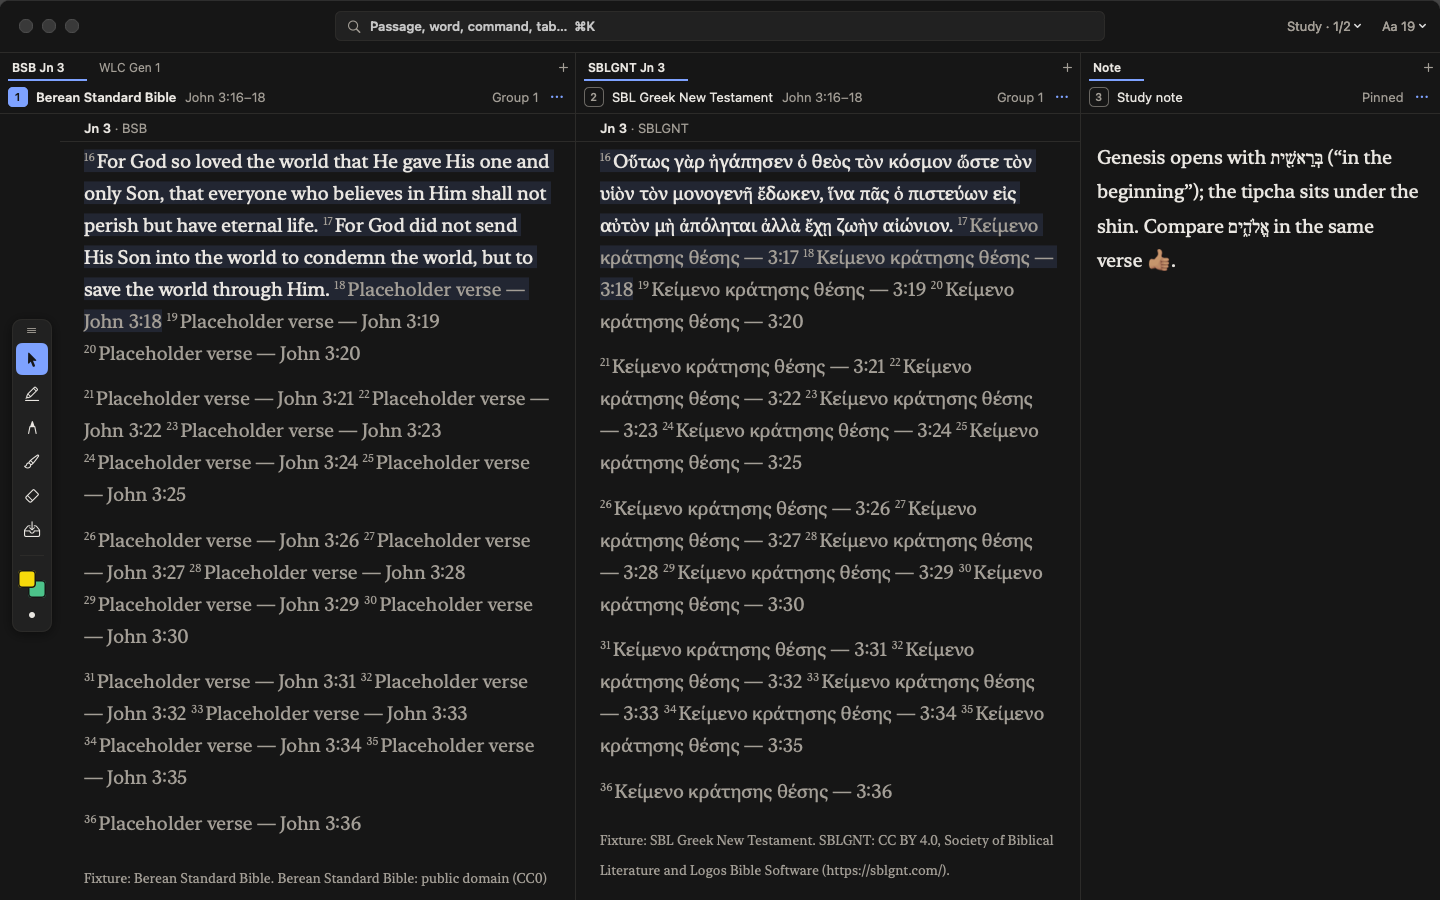
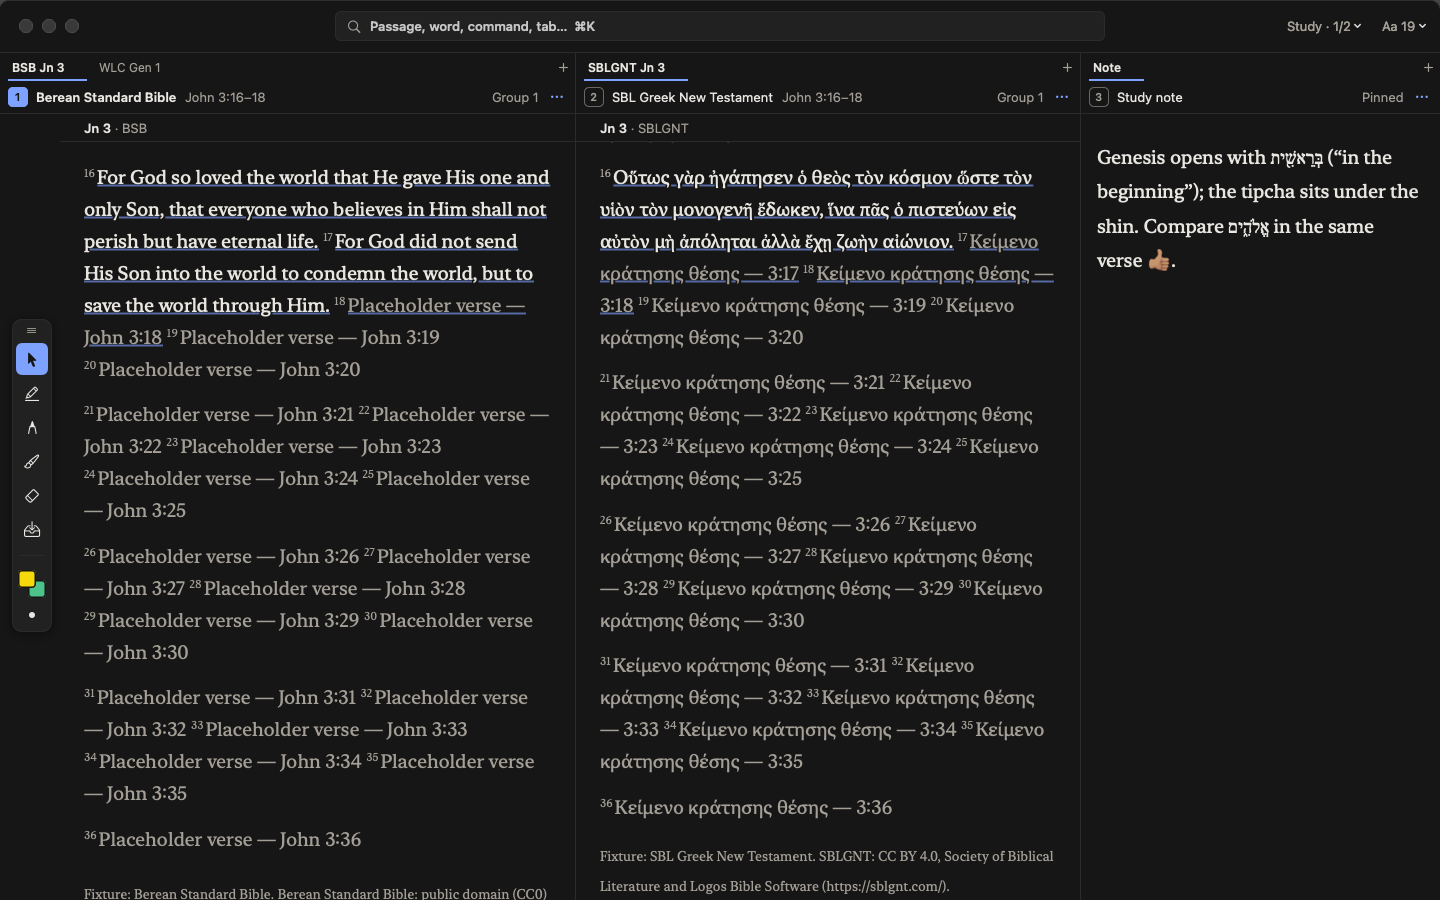
B078: Mac pictures and evidence after the lockstep rulings
Claude-Session: https://claude.ai/code/session_01PSjqcsLRcrsvGQzbzBAjnV

Changed region(s): [[0.0312, 0.1556, 0.75, 1.0]]

diff --git a/docs/evidence/B078-mac.md b/docs/evidence/B078-mac.md
@@ -1,8 +1,10 @@
 # B078 evidence (Mac) — continuous reading in the Mac shell
 
 Recorded 4 November 2026 on the Mac mini (Apple M1, macOS 26.4, Xcode 26.6) in the worktree
-`openlogos-b078mac`, branch `b078-mac-reading` (from `b078-core-reading` at ad10225, bindings
-regenerated). Work was done by a Claude Code subagent while the owner slept. Nothing was
+`openlogos-b078mac`, branch `b078-mac-reading` (from `b078-core-reading` at ad10225; merged
+again at 2e53c87 for the core's palette book rows, bindings regenerated). Revision 2 follows
+the lead's lockstep rulings (reading line, mark, not-in-edition, window cap, Find, live
+follow, placeholder words); the numbers, pictures and lanes below are from that tree. Work was done by a Claude Code subagent while the owner slept. Nothing was
 pushed or merged; no simulator, keychain or macOS user was touched. Only placeholder text and
 the conformance fixtures' verses are on screen. The core part is B078-core.md; the web half
 is `b078-web-reading`.
@@ -11,18 +13,18 @@ is `b078-web-reading`.
 
 | # | Item | Where |
 |---|---|---|
-| 1 | Typing `John 3:16` (palette, Enter) jumps the column to John 3 with verse 16's first line 8 pt under the sticky header, flashes it once (accent 35 % easing to 12 % over 0.9 s) and keeps a quiet mark (accent 12 %). The linked SBLGNT column goes to the same verse, marked too. A chapter's first verse (or a Psalm's title) opens with the chapter heading in view. | `Sources/Shell/ContinuousReader.swift` (`ReadingStream.open`, `jump`, `flash`) |
+| 1 | Typing `John 3:16` (palette, Enter) jumps the column to John 3 with verse 16's first line on the reading line, 24 pt under the sticky header (a sliver of the verse before shows), flashes it once (the accent at 30 % fading out over 1.2 s) and keeps B072's underline mark (2 pt, accent at 60 %) on every verse of `highlight_range`. The linked SBLGNT column goes to the same verse, marked too. | `Sources/Shell/ContinuousReader.swift` (`ReadingStream.open`, `jump`, `flash`) |
 | 2 | Scrolling runs John 3 → 4 … 21 → Acts 1 and back up John 2 → 1 → Luke 24 without a jump: the verse at the top keeps its place on screen while blocks are added or released above it (the clip view's origin moves by exactly what changed; the tests check every 40 pt step to within 2 pt). The header (`Jn 4 · BSB`) follows at once; tab labels (`BSB Jn 4`) and identity rows (`John 4:7`) follow at once through `ReadingLabels` (only those views re-render), and the session is refreshed when scrolling stops. Flick scrolling at 120 pt/frame through 32 chapters never stalls (no step moved less than asked) and dropped no frame at 1440 × 900. | `ReadingStream.maintain`, `trim`, `anchored`, `ReadingScheduler`, `ReadingLabels` |
 | 3 | Blocks (ChapterLayout.swift): the book title on a book's first chapter, the chapter label, the placeholder notice, verse numbers (none for a Psalm title), a new paragraph at `paragraph_start`, a line of its own for poetry (indented 1.5 em), the superscription italic and muted. | `Sources/Reader/ChapterLayout.swift` (`ReaderBlockPiece`, `ReaderLayout(pieces:)`) |
-| 4 | Group 1 (BSB + SBLGNT) scrolls together verse for verse: each top-verse change is reported (`tab.record_scroll`) and each follower scrolled to its mapped verse without animation and without reporting back. A WLC tab in the group follows by its own numbering (English Malachi 4:5 → Hebrew 3:23; Joel 2:30 → 3:3). | `ShellModel.recordScroll`, `apply(positions:)`, `ReadingStream.apply`, `follow` |
-| 5 | Back / Forward return to typed passages (Back to the verse the reader had scrolled to) and clear the mark; `John 3:16-18` marks the three verses; `Jude 3`, `Ps 3` (its title), `Genesis` (chapter 1, first verse) open; `John 22` shows the not-in-edition state (`John has no chapter 22`), as does an SBLGNT tab following into Psalms (`Psalms is not in SBLGNT`) and WLC on John (`John is not in WLC`). | `NotInEditionView` (ColumnsView.swift), `ShellModel.readingError`, `withBookRow` |
-| 6 | BSB John 3:16–17, SBLGNT John 3:16 and WLC Genesis 1:1–2 show their real text with the fixtures' licence line under their block, and keep highlights, ink, selection, Word study, the context menu and Find in this chapter (which keeps to the chapter it was opened in). Placeholder verses are muted; a selection or word that touches one has Highlight, Collect, Note on it, Study, Highlight in…, Copy with reference and Word study disabled with `Placeholder text can't be quoted or collected` (well, context menu, a toast if run, drags refused); copying the text itself and searching stay. | `ShellModel.placeholderBlocked`, `contextMenu(for:)`, `refreshWell`, `dragEnded` |
+| 4 | Group 1 (BSB + SBLGNT) scrolls together verse for verse: each change of the verse on the reading line is reported (`tab.record_scroll`, at most once per frame, never behind window work) and each follower scrolled to its mapped verse on its reading line without animation and without reporting back; when scrolling settles the position is reported again with its scalar. The verse on the reading line is the verse that begins on that row, else the verse running through it. A WLC tab in the group follows by its own numbering (English Malachi 4:5 → Hebrew 3:23; Joel 2:30 → 3:3). | `ShellModel.recordScroll`, `apply(positions:)`, `ReadingStream.apply`, `follow` |
+| 5 | Back / Forward return to typed passages (Back to the verse the reader had scrolled to) and clear the mark; `John 3:16-18` marks the three verses; `Jude 3`, `Ps 3` (its title), `Genesis` (the core's palette book row, `nav.navigate Gen.1`) open; `John 22` shows the not-in-edition state, titled `Berean Standard Bible · John 22`, body the core's words (`John has no chapter 22.`), buttons `Choose another…` (the palette) and `Close tab`; likewise an SBLGNT tab following into Psalms (`Psalms is not in SBLGNT.`) and WLC on John. | `NotInEditionView` (ColumnsView.swift), `ShellModel.readingError` |
+| 6 | BSB John 3:16–17, SBLGNT John 3:16 and WLC Genesis 1:1–2 show their real text with the fixtures' licence line under their block, and keep highlights, ink, selection, Word study, the context menu and Find in this chapter (the chapter of the right-clicked word; from the palette or keyboard, the chapter on the reading line). Placeholder verses are muted, each block carries `Placeholder text — this edition is not installed`; a selection or word that touches one has Highlight (its submenu removed), Collect, Note on it, Study, Highlight in…, Copy with reference, Word study and Search lemma disabled with `Placeholder text can’t be quoted or collected` (well, context menu, a toast if run, drags refused); copying the text itself and searching stay. | `ShellModel.placeholderBlocked`, `contextMenu(for:)`, `refreshWell`, `dragEnded` |
 | 7 | Highlights are kept as segment spans and painted in whatever window is shown; ink strokes are pinned to the verse under them (host-only anchor): they move with the text, hide while the verse is out of the window and come back on it. | `SegmentSpan`, `ReaderMark.spans`, `InkSheet.anchors` / `InkCanvasEngine.syncOffsets` |
-| 8 | Only a window of chapters is in the text view: 5 blocks when the reader stops, at most 12 while scrolling (releases wait for the reader to stop, or go several at once at the cap). Longest window in the 32-chapter scrolls: 12 blocks, 531 verses, 19,830 UTF-16 units; process footprint 109–119 MB before and after each scroll. Hidden tabs keep their stream (40 at most). | `ReadingStream.maxBlocks`, `hardMaxBlocks`, `ShellModel.pooledStream` |
+| 8 | Only a window of chapters is in the text view: 5 blocks when the reader stops, at most 9 while scrolling (releases wait for the reader to stop, or go several at once at the cap). Longest window in the 32-chapter scrolls: 9 blocks, 433 verses, 16,488 UTF-16 units; process footprint 109–118 MB before and after each scroll. Hidden tabs keep their stream (40 at most). | `ReadingStream.maxBlocks`, `hardMaxBlocks`, `ShellModel.pooledStream` |
 
 ## Speed (specs/22 §7, Release, 10 × 3 × 4 session, 240 samples per row)
 
-Tree dc17a62, `scripts/b078-mac-shots.sh measure`, raw JSON in `artifacts/b078/measure-1440.json`
+Tree 666fa7a, `scripts/b078-mac-shots.sh measure`, raw JSON in `artifacts/b078/measure-1440.json`
 and `measure-1024.json` (gitignored). Rows as B072: the work is the command through a
 synchronous layout and display of the window. In the measurement session column 2 shows BSB
 in link group 1 with column 1 (SBLGNT) and column 3 (BSB), so every move also moves two
@@ -30,43 +32,44 @@ followers.
 
 | Interaction (budget ms) | 1440 × 900 p50 / p95 / max | 1024 × 768 p50 / p95 / max |
 |---|---:|---:|
-| **Open a chapter: typed jump outside the window** (locate, chapter blocks, layout, verse at top, two followers, drawn) (100) | 22.73 / 38.03 / 39.47 | 21.38 / 37.10 / 37.85 |
-| **Scroll into the next verse** (record_scroll, two followers scrolled, labels, drawn) (16) | 5.64 / 7.06 / 8.38 | 5.76 / 7.99 / 9.07 |
-| **Linked follow, host side** (core record_scroll and both followers scrolled; 245 samples) (16) | 0.66 / 0.84 / 0.94 | 0.66 / 0.82 / 0.89 |
-| **Labels after a scroll** (session refresh, shell re-rendered, drawn; on settle) (16) | 9.00 / 10.70 / 11.75 | 8.79 / 8.99 / 9.30 |
-| Window edit, whole: add a block below (62 / 61) | 3.04 / 4.05 / 7.24 | 3.23 / 4.27 / 4.79 |
-| Window edit, whole: add a block above (6 / 4) | 2.67 / 2.75 / 2.75 | 2.61 / 2.64 / 2.64 |
-| Window edit, whole: release blocks above (8 / 8) | 3.68 / 4.48 / 4.48 | 3.78 / 4.82 / 4.82 |
-| Deferred work, one item per frame (a block's load, its layout, a release; one column) (157 / 153) | 3.63 / 5.31 / 9.38 | 3.95 / 6.05 / 7.69 |
-| Palette keystroke (16) | 5.59 / 13.77 / 20.43 | 5.65 / 14.51 / 23.00 |
-| Tab switch within a column (16) | 10.81 / 12.51 / 14.38 | 10.60 / 12.25 / 14.94 |
-| Tab switch after reading (16) | 11.17 / 11.96 / 12.92 | 11.08 / 11.82 / 12.37 |
-| Column focus (16) | 7.30 / 9.08 / 10.55 | 7.43 / 7.75 / 8.62 |
-| Workspace switch (100) | 37.93 / 41.17 / 59.59 | 37.38 / 38.88 / 54.38 |
-| Tool change (16) | 7.24 / 8.82 / 10.23 | 7.77 / 9.57 / 10.28 |
-| Column focus, original ↔ translation (16) | 9.20 / 9.42 / 10.16 | 9.07 / 9.44 / 10.27 |
-| Translation → notes dock (16) | 7.46 / 7.74 / 8.54 | 7.25 / 7.64 / 10.38 |
-| Selection appears → selection group drawn (16) | 8.96 / 10.08 / 12.25 | 10.08 / 10.68 / 11.94 |
-| Open a chapter in a tab, warm (100) | 11.66 / 11.79 / 13.90 | 11.47 / 11.63 / 12.51 |
+| **Open a chapter: typed jump outside the window** (locate, chapter blocks, layout, verse on the reading line, two followers, drawn) (100) | 23.57 / 38.42 / 40.10 | 22.29 / 37.28 / 40.52 |
+| **Scroll into the next verse** (record_scroll, two followers scrolled, labels, drawn) (16) | 4.93 / 6.52 / 9.67 | 4.96 / 6.24 / 8.79 |
+| **Linked follow, host side** (core record_scroll and both followers scrolled; 242 samples) (16) | 0.73 / 0.98 / 1.16 | 0.74 / 0.88 / 1.03 |
+| **Labels after a scroll** (session refresh, shell re-rendered, drawn; on settle) (16) | 8.89 / 9.28 / 10.76 | 8.84 / 9.17 / 11.30 |
+| Window edit, whole: add a block below (62 / 61) | 2.60 / 3.60 / 4.13 | 2.73 / 3.90 / 4.28 |
+| Window edit, whole: add a block above (4 / 4) | 2.66 / 3.11 / 3.11 | 2.32 / 3.07 / 3.07 |
+| Window edit, whole: release blocks above (14 / 14) | 3.07 / 3.80 / 3.92 | 3.09 / 3.88 / 5.45 |
+| Deferred work, one item per frame (a block's load, its layout, a release; one column) (161 / 161) | 3.26 / 4.88 / 6.26 | 3.50 / 5.51 / 6.89 |
+| Palette keystroke (16) | 4.95 / 14.99 / 20.73 | 5.13 / 14.41 / 21.57 |
+| Tab switch within a column (16) | 11.83 / 14.67 / 17.37 | 10.64 / 11.28 / 11.88 |
+| Tab switch after reading (16) | 11.28 / 12.09 / 14.05 | 11.19 / 11.95 / 14.82 |
+| Column focus (16) | 7.53 / 9.97 / 12.20 | 7.18 / 7.61 / 8.49 |
+| Workspace switch (100) | 38.54 / 40.92 / 69.85 | 37.48 / 39.30 / 54.34 |
+| Tool change (16) | 7.31 / 8.94 / 10.59 | 7.25 / 9.22 / 11.83 |
+| Column focus, original ↔ translation (16) | 9.27 / 9.46 / 11.03 | 9.20 / 9.59 / 10.75 |
+| Translation → notes dock (16) | 7.53 / 8.16 / 10.56 | 7.42 / 8.76 / 9.68 |
+| Selection appears → selection group drawn (16) | 9.24 / 9.59 / 11.00 | 10.33 / 11.46 / 13.04 |
+| Open a chapter in a tab, warm (100) | 11.83 / 12.10 / 14.06 | 11.63 / 11.91 / 14.68 |
 
 **Scripted continuous scrolls** (one step per display-link frame from Matthew 1 until 32
-chapters have passed the top; driver plus two followers; frame = display-link interval):
+chapters have passed the reading line; driver plus two followers; frame = display-link
+interval):
 
 | Run | frames | frame p50 / p95 / max ms | frames > 17.5 ms | > 34 ms | step p50 / p95 ms | stalls |
 |---|---:|---:|---:|---:|---:|---:|
-| 1440, 40 pt/frame (2,400 pt/s) | 1015 | 16.67 / 16.67 / 91.56 | 8 | 1 | 6.66 / 8.73 | 0 |
-| 1440, 120 pt/frame (7,200 pt/s) | 337 | 16.67 / 16.67 / 16.67 | 0 | 0 | 6.09 / 6.95 | 0 |
-| 1024, 40 pt/frame | 1361 | 16.67 / 16.67 / 33.33 | 8 | 0 | 6.77 / 9.39 | 0 |
-| 1024, 120 pt/frame | 452 | 16.67 / 16.67 / 33.33 | 5 | 0 | 6.08 / 7.05 | 0 |
+| 1440, 40 pt/frame (2,400 pt/s) | 1011 | 16.67 / 16.67 / 33.33 | 4 | 0 | 6.61 / 8.27 | 0 |
+| 1440, 120 pt/frame (7,200 pt/s) | 335 | 16.67 / 16.67 / 16.80 | 0 | 0 | 5.93 / 6.82 | 0 |
+| 1024, 40 pt/frame | 1357 | 16.67 / 16.67 / 33.33 | 4 | 0 | 6.68 / 9.48 | 0 |
+| 1024, 120 pt/frame | 451 | 16.67 / 16.67 / 33.33 | 1 | 0 | 5.92 / 6.83 | 0 |
 
-Every budget holds. Every window change during scrolling cost at most one dropped frame
-except one 91.6 ms frame in the 1440 40 pt run, whose own work was a 9.4 ms step and a 3.7 ms
-deferred item (the rest of that frame was outside the app's handlers; it is recorded as
-measured). Compared with B077 (p95 at 1440): palette 13.77 (14.40), tab switch 12.51 (13.61),
-column focus 9.08 (8.70), workspace 41.17 (41.78), tool 8.82 (9.17), original ↔ translation
-9.42 (11.02), dock 7.74 (8.57), selection 10.08 (8.98), chapter warm 11.79 (11.68): no
-regression beyond run-to-run noise. The next-frame p95 of the dock and selection rows is above
-16.7 for the reason B076-mac.md gives (a `prepare` step).
+Every budget holds, and no window change during scrolling cost more than one dropped frame (no
+frame over 34 ms in any run). Compared with B077 (p95 at 1440): palette 14.99 (14.40), tab
+switch 14.67 (13.61), column focus 9.97 (8.70), workspace 40.92 (41.78), tool 8.94 (9.17),
+original ↔ translation 9.46 (11.02), dock 8.16 (8.57), selection 9.59 (8.98), chapter warm
+12.10 (11.68): within run-to-run noise. The next-frame p95 of the dock and selection rows is
+above 16.7 for the reason B076-mac.md gives (a `prepare` step). Revision 1 (dc17a62: 8 pt
+margin, 12-block cap) for comparison: typed jump 38.03, next verse 7.06, tab switch 12.51, one
+91.6 ms frame in the 1440 40 pt run (now none over 34 ms).
 
 How the numbers were reached (first runs on this branch had 40–70 ms window edits and a 27 ms
 tab switch): blocks are laid out once and shared by every stream (`ReaderBlockPiece` cache);
@@ -85,17 +88,18 @@ at every chapter).
 `just test-reader mac`: 68 cases in OpenLogosMacTests (58 from B077, one changed, and 10 new
 in `Tests/ShellTests/ReadingTests.swift`):
 `testATypedPassageOpensItsChapterWithTheVerseAtTheTopFlashedAndMarked` (palette `Jn 3:16`, verse
-at 8 pt, the chapters around it, header, highlight_range, flash then the quiet 12 % painted, the
-linked SBLGNT column at 3:16 marked, `BSB Jn 3`) ·
+on the 24 pt reading line, the chapters around it, header, highlight_range, the flash at most
+30 % and fading out, then the underline mark painted with no background, the linked SBLGNT
+column at 3:16 marked, `BSB Jn 3`) ·
 `testRangesBooksChaptersAndOneChapterBooksOpenWhereTheyShould` (3:16–18 marked as one range,
 Jude 3, Ps 3 at its title with nothing marked, Genesis at 1:1 with nothing before it) ·
 `testAPassageNotInTheEditionShowsTheNotInEditionState` (John 22, back to John 3:16, WLC on John) ·
 `testScrollingCrossesChaptersAndBooksBothWaysWithoutMovingTheText` (John 21 → Acts 1 with the
 book heading, header, live labels for both linked tabs, then the session's labels, up into
 John 19, Malachi 4 → Matthew 1, Genesis 2 → 1; every step within 2 pt) ·
-`testOnlyAWindowOfChaptersIsEverRendered` (32 chapters from Matthew 1: never more than 12
+`testOnlyAWindowOfChaptersIsEverRendered` (32 chapters from Matthew 1: never more than 9
 blocks, under 40,000 units, releases happen, back to 5 when the reader stops) ·
-`testLinkedTabsFollowVerseForVerseWithoutFeedingBack` (SBLGNT at the same verse at 8 pt, the
+`testLinkedTabsFollowVerseForVerseWithoutFeedingBack` (SBLGNT at the same verse on its reading line, the
 follower's scroll not reported, WLC by its numbering for Malachi and Joel) ·
 `testBackAndForwardReturnToTypedPassages` · `testBlocksCarryHeadingsParagraphsPoetryAndTitles`
 (Ps 3 heading and notice, title without number in italic, poetry indented on its own line,
@@ -112,11 +116,11 @@ moves the passage and the revision, still without undo; within the verse it is q
 
 ## Screenshots (`docs/evidence/B078/`, 8 PNGs, 2.1 MB, 1440 × 900)
 
-`mac-read-jump-john-3-16` (flash at its peak, both columns) · `mac-read-john-acts-boundary`
+`mac-read-jump-john-3-16` (the flash 0.3 s in, the verse on the reading line, both columns) · `mac-read-john-acts-boundary`
 (the end of John 21 above the `Acts` heading, both columns) · `mac-read-linked-mid-scroll`
 (BSB and SBLGNT aligned at 3:17 mid-scroll) · `mac-read-psalm-3` (title, poetry, Psalm 4's
-heading and notice; SBLGNT `Psalms is not in SBLGNT`) · `mac-read-not-in-edition` (`John 22`)
-· `mac-read-dark-range` (dark, `John 3:16–18` marked, identity rows in words) ·
+heading and notice; SBLGNT `Psalms is not in SBLGNT`) · `mac-read-not-in-edition` (`Berean Standard Bible · John 22`, the core's words, the two buttons)
+· `mac-read-dark-range` (dark, `John 3:16–18` with the underline mark, identity rows in words) ·
 `mac-read-placeholder-menu` (the menu on placeholder text, rows disabled with words) ·
 `mac-read-genesis-wlc` (WLC Genesis 1: the book heading, real Hebrew 1:1–2, placeholders,
 licence line). `scripts/b078-mac-shots.sh` retakes them (`-OPENLOGOS_TYPE` types a passage
@@ -130,48 +134,39 @@ after the columns lay out; `-OPENLOGOS_SCROLL 1:-160` scrolls column 1 as the re
 | `nix develop .#apple -c just test-reader mac` | exit 0. `Executed 68 tests, with 0 failures (0 unexpected)` |
 | `nix develop .#apple -c just test-swift` | exit 0. `Executed 10 tests, with 0 failures (0 unexpected)`; `conformance cases: 1717 passed, 0 failed` |
 
-Nothing under `crates/` changed: `git diff ad10225 -- crates` is empty.
+Nothing under `crates/` changed on this branch: `git diff --stat b078-core-reading..HEAD -- crates` is empty.
 
 ## Decisions (for the owner's review)
 
-- **Jump placement**: the typed verse's first line 8 pt under the sticky header, no context
-  above; a chapter's first verse (or a titled Psalm, or a whole book) opens with the chapter's
-  heading at the top instead. Proposed to b078web for lockstep (no reply received during the
-  run).
-- **Flash and mark**: accent 35 % easing to 12 % over 0.9 s, the quiet mark covering the verses
-  from the first one's number to the last one's end.
-- **Sticky header**: a 28 pt bar `Jn 3 · BSB` (chapter semibold, edition muted) over a 1 pt
-  rule; the text sits below it, not under it.
-- **Top verse** is the verse whose text begins the first line at the top of the text; a jump's
-  verse stays the top verse until the reader scrolls, even when its first line starts with the
-  verse before.
-- **Labels while scrolling**: tab labels and identity rows follow at once (ReadingLabels); the
-  session refresh (whole shell) waits for the scroll to settle (150 ms).
-- **Window**: 5 blocks at rest; up to 12 while scrolling (releases mostly when the reader
-  stops: an edit above the reader costs TextKit 2 a relayout down to the view). A jump loads its
-  chapter and the next; the chapter before comes a frame later.
-- **Placeholder refusals**: Highlight, Collect, Note on it, Study, Highlight in…, Copy with
-  reference (`copy.passage`) and Word study, with `Placeholder text can't be quoted or
-  collected`; Copy and Search stay.
-- **Whole book typed** (`Genesis`): the core palette offers no passage row for a bare book, so
-  the Mac adds one (`Genesis 1`, “The whole book, from its first chapter”, `nav.navigate
-  Gen.1`) when `reading.locate` answers granularity `book`. Reported to team-lead as a core
-  gap; a core row would replace it.
-- **A reveal** (a selection made in code, Find's next match) scrolls only when the range is out
-  of view, and brings it to the top; that scroll is reported like the reader's (linked tabs
-  follow).
-- **Ink** is pinned to the verse under a stroke's top, host-side only (the ink document is
-  unchanged); pinned ink is not drawn over the sticky header.
-- **Find in this chapter** in a window searches the chapter the menu was opened in.
-- **Nearest-verse hint** (`mapping: nearest`): none shown.
+Lockstep with web, as the lead ruled (2026-11-04):
+
+- **Reading line** 24 pt under the 28 pt sticky header: a typed verse, a follower's verse and
+  the reported position all sit there; the position is the verse that begins on that row, else
+  the verse running through it with the row's scalar.
+- **Mark**: B072's underline on every verse of `highlight_range`, plus a one-time accent flash
+  (30 %) fading out over 1.2 s.
+- **Not in edition**: `<edition name> · <passage>`, the core's words with a full stop,
+  `Choose another…` and `Close tab`.
+- **Window**: two chapters each side at rest; at most 9 blocks while scrolling.
+- **Find in this chapter**: the right-clicked word's chapter; else the reading line's.
+- **Linked follow** live (at most once per frame) plus a settle report.
+- **Placeholder**: muted verses, the per-block notice, `Placeholder text can’t be quoted or
+  collected`.
+- **Whole books** come from the core's palette rows (2e53c87); revision 1's host row is gone.
+
+The Mac's own choices: releases wait for the reader to stop where the cap allows (an edit
+above the reader costs TextKit 2 a relayout down to the view); a block below is laid out in a
+frame of its own before it scrolls in; tab labels and identity rows follow a scroll through
+`ReadingLabels` and the session refresh waits for the scroll to settle (150 ms); a reveal (a
+selection made in code, Find's next match) scrolls only when the range is out of view and is
+reported like the reader's scroll; ink is pinned to the verse under a stroke's top (host
+only); no nearest-verse hint.
 
 ## Deviations and skipped
 
-- The window grows to 12 blocks while scrolling (brief: "a window of chapters"; the core
-  suggested "one or two each side") — measured above, back to 5 at rest.
 - The ink anchor is not persisted (the ink document has no field for it; strokes are host
   memory until B074 anyway).
+- No extra room below an edition's last chapter: Revelation 22:21 and WLC Malachi 3:24 cannot
+  reach the reading line (web adds 80 % of the viewport below the stream).
 - iPad: the continuous surface is Mac-only (`#if os(macOS)`); the iPad shell keeps B072's
   fixture surface. Not built for iOS in this run (no simulator lanes were in scope).
-- No reply from b078web was received while working, so visible details were proposed to it and
-  recorded here; a mismatch with the web half needs the lead's ruling.
